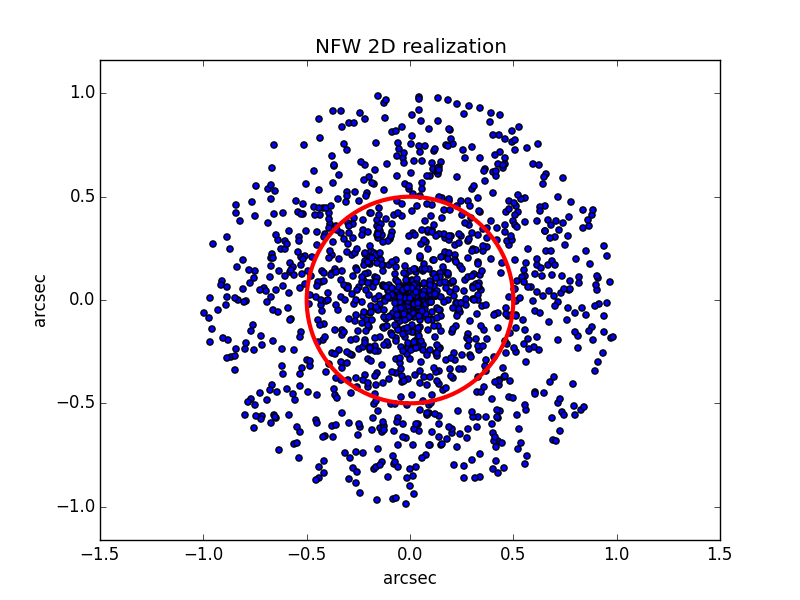
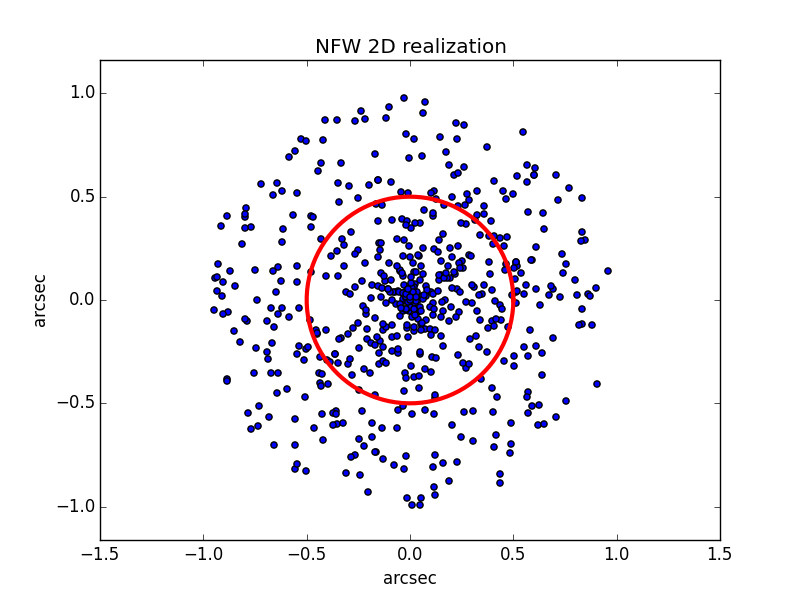
mass check part 1 done

Changed region(s): [[0.25, 0.15, 0.7812, 0.87]]

diff --git a/python/Substructure/NFWprofile.py b/python/Substructure/NFWprofile.py
@@ -29,7 +29,7 @@ def scaleR(cosmopara,lenspara,M_200,c_200):
 
 	rho_c = 3*Hz**2/(8*np.pi*G) # kg/m^3
 
-	rs = (3*M_200/8/np.pi/rho_c/c_200**3)**(1.0/3.0) # m 
+	rs = (3*M_200/800./np.pi/rho_c/c_200**3)**(1.0/3.0) # m 
 	rs_m = rs # m
 
 	#rs = rs/3.08e22/cosmopara.h/100 # convert to Mpc
@@ -71,7 +71,9 @@ def M200(cosmopara,lenspara,sig):
 	Hz = 100*cosmopara.h*distance.Ez(cosmopara,zl) # km/s/Mpc
 	Hz = Hz*1e3/3.08e22 # s-1
 
-	M_200 = sig**3*(G/Hz**2)**(0.5)*(2/G)**(3./2.) # kg
+	rho_c = 3*Hz**2/(8*np.pi*G) # kg/m^3
+
+	M_200 = sig**3*np.sqrt(3./800./np.pi/rho_c)*(2./G)**(3./2.)
 
 	return M_200
 
@@ -110,12 +112,27 @@ def cdf_d(ri,rs):
 
 	return cdf_d
 
+def cdf(ri,rs):
+
+	profile = lambda r: (4.0*np.pi*r**2)*1.0/(r/rs)/(1.+r/rs)**2
+
+	integrate = np.zeros(len(ri))
+
+	for i in range(len(ri)):
+
+		I = scipy.integrate.quad(profile,0,ri[i])
+		integrate[i] = I[0]
+
+	return integrate
+
 """ Draw from inverse_cdf will get cloned distribution """
 
 def inverse_cdf(r,rs,r_end):
 
-	ri = np.linspace(0,r_end,r_end*10000)
-	Ix = cdf_d(ri,rs)
+	ri = np.linspace(0,r_end,100)
+	#Ix = cdf_d(ri,rs)
+	Ix = cdf(ri,rs)
+	Ix = Ix/Ix[-1]
 	Iy = ri
 
 	return np.interp(r,Ix,Iy)
@@ -139,30 +156,7 @@ def set_halopara(cosmopara,lenspara):
 
 		r_200 = rs*c_200 # [arc sec,m]
 
-		''' use physical unit for rho_s!!! '''
-		
-		def I(r_200,rs):
-
-			profile = lambda r: (4.0*np.pi*r**2)*1.0/(r/rs)/(1.+r/rs)**2
-
-			integrate = scipy.integrate.quad(profile,0,r_200)
-			integrate = integrate[0]
-
-			return integrate
-		
-
-		''' Let's try M_sun/pc^3 to compare w/ Milky way's value [~0.01] '''
-
-		#rho_s = M_200[0]/I(r_200[1],rs[1]) # kg/m^3
-		
-		r200_pc = r_200[1]/3.09e16
-		rs_pc = rs[1]/3.09e16
-		'''
-		ri = np.linspace(0,r200_pc,r200_pc/1000.)
-		I_d = cdf_d(ri,rs_pc)
-		'''
-		#rho_s = M_200[1]/I_d[-1] # kg/m^3
-		rho_s = M_200[1]/I(r200_pc,rs_pc)
+		rho_s = M_200[0]/(4.0*np.pi*rs[1]**3*(np.log(1.+c_200)-c_200/(1.+c_200))) # kg/m^3
 
 		
 	return halopara
@@ -176,20 +170,22 @@ def enclose_mass(cosmopara,ri,zl,halopara):
 	ri = distance.arcs2meter(cosmopara,ri,zl)
 
 	rs = halopara.rs[1]  # m
-	rho_s = halopara.rho_s
+	rho_s = halopara.rho_s # kg/m^3
 
 	profile = lambda r: (4.0*np.pi*r**2)*1.0/(r/rs)/(1.+r/rs)**2
 
-	''' Use discrete integration '''
+	M_en = np.zeros(len(ri))
 
-	'''
-	M_en = scipy.integrate.quad(profile,0,ri)
-	M_en = rho_s*M_en[0]
-	'''
+	for i in range(len(ri)):
+	
+		I = scipy.integrate.quad(profile,0,ri[i])
+		M_en[i] = rho_s*I[0]
+	
 
 	M_en = M_en/2e30 # M_sun
 
-	print M_en
+	#print 'enclose_mass'
+	#print M_en
 
 	return M_en
 

diff --git a/python/Substructure/spatial_dist.py b/python/Substructure/spatial_dist.py
@@ -36,13 +36,13 @@ x_lim, y_lim = lenspara.xc+np.array([-2.0*lenspara.b,2.0*lenspara.b]), lenspara.
 #rs = NFW.scaleR(cosmopara,lenspara)
 '''use set_halopara to replace'''
 halopara = NFW.set_halopara(cosmopara,lenspara)
-
+'''
 print halopara.M_200
 print halopara.c_200
 print halopara.rs
 print halopara.r_200
 print halopara.rho_s
-
+'''
 rs = halopara.rs[0] # arc sec
 r_end = 100*lenspara.b
 
@@ -143,18 +143,23 @@ print len(rd)
 M_s,k_s,b_s,r_t = subhalo_lens(rd)
 
 print np.sum(2*k_s)
+
 print k_s
-print b_s
+#print b_s
+print r_t
 print M_s
-'''
-#plt.scatter(x_s,y_s)
+
+
 plt.scatter(x_s,y_s)
 
 th = np.linspace(0,2*np.pi,100)
-plt.plot(0.5*np.cos(th),0.5*np.sin(th),'r', linewidth = 3.0)
+#plt.plot(0.5*np.cos(th),0.5*np.sin(th),'r', linewidth = 1.0)
+plt.plot(0.55*np.cos(th),0.55*np.sin(th),'r-', linewidth = 1.0)
+plt.plot(0.45*np.cos(th),0.45*np.sin(th),'r-', linewidth = 1.0)
 
 #plt.hist(np.log10(M_s),bins=100)
-#plt.hist(rp,bins = 100)
+#plt.hist(rp,bins = 50)
+#plt.xlim(0,1.)
 
 plt.xlim(-1,1)
 plt.ylim(-1,1)
@@ -162,8 +167,10 @@ plt.title('NFW 2D realization')
 plt.xlabel('arcsec')
 plt.ylabel('arcsec')
 plt.axis('equal')
-plt.savefig('NFW_2D_realization.png')
-'''
+#plt.savefig('NFW_2D_realization.png')
+
+plt.show()
+
 ## Start to draw mass & r_t
 
 
